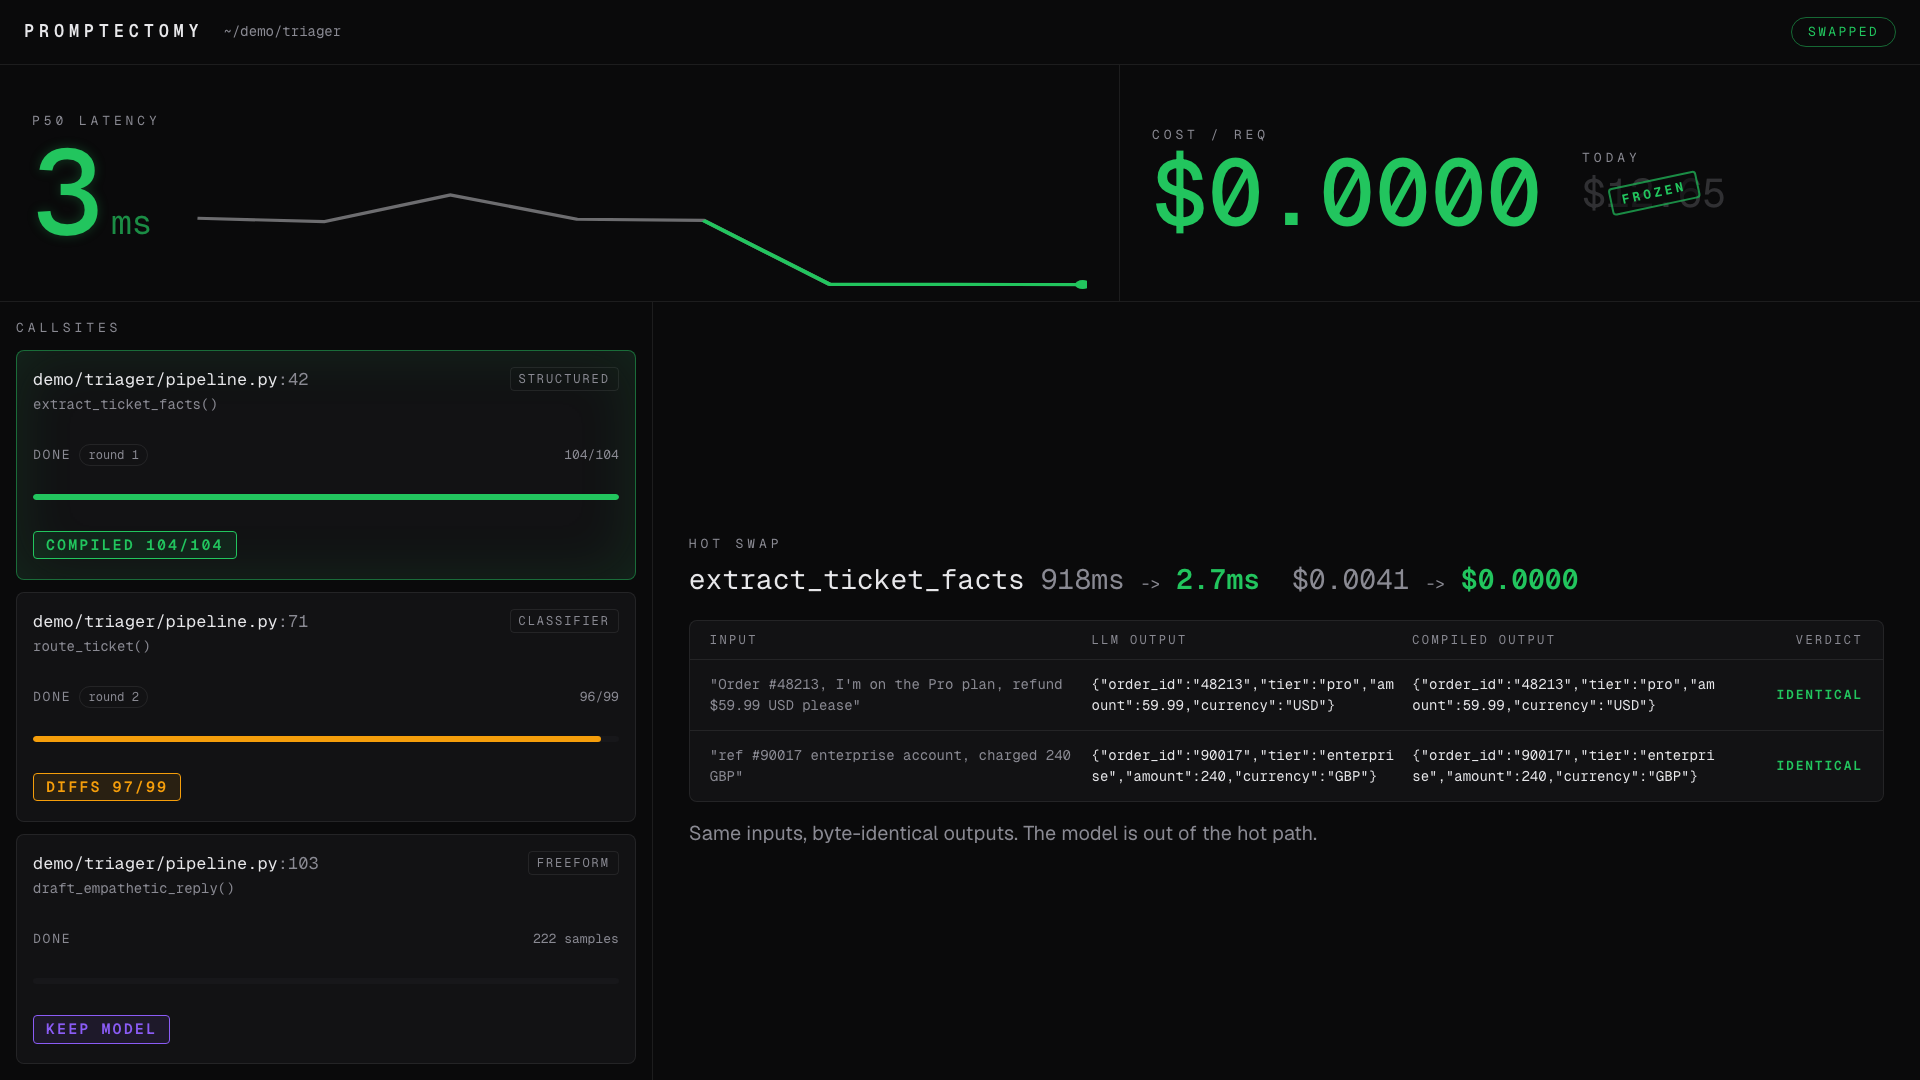
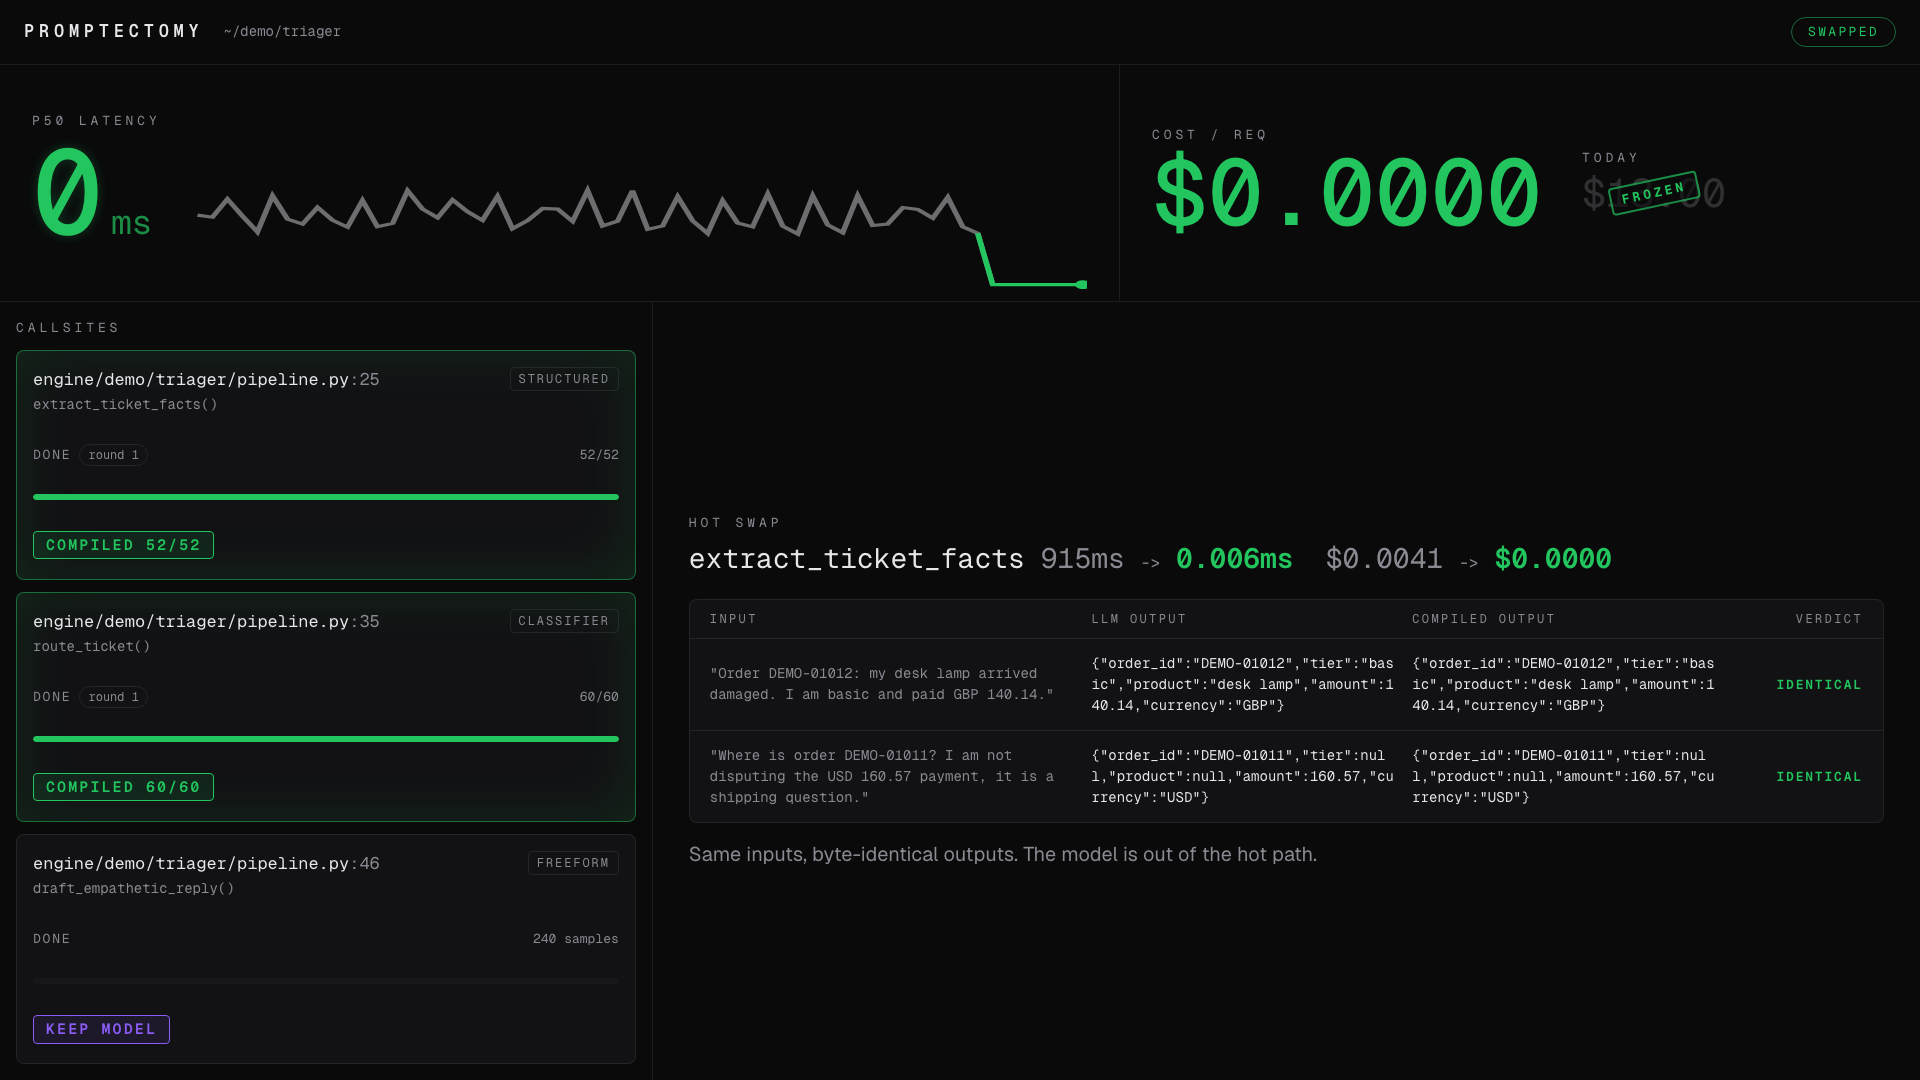
Honest real-data demo + working Codex scan + markitdown receipt
Fixed the audit --output-schema (AuditSample previews were JsonValue -> no concrete type ->
OpenAI strict 400 -> scanner silently fell back to static). Now Codex genuinely audits: verified
on our repo (3 callsites) and on microsoft/markitdown (found its 3 vision/LLM callsites, all
correctly kept as model). Dashboard demo-run.ndjson rebuilt from the real run (52/52, 60/60,
keep-model, -44.8%); swap side-by-side produced by executing the real generated modules; no
fabricated diffs; Playwright 8/8. Receipts under .agent/artifacts/receipts/.

Claude-Session: https://claude.ai/code/session_015d9CNbHRWcF1xMgNYyVSu5

diff --git a/ui/tests/beats.spec.ts b/ui/tests/beats.spec.ts
@@ -2,52 +2,57 @@ import { test, expect, type Page } from "@playwright/test";
 
 // Beat boundaries in fixture time (ms). ?until=N applies every recorded event
 // with at_ms <= N instantly, so each beat is asserted as a deterministic state.
+// The fixture is the re-paced REAL run: scan at 11s, extract verdict at 37.6s,
+// route verdict at 52.4s, keep verdict at 54.2s, swap at 56.5s, done at 73s.
 const GREEN = "rgb(34, 197, 94)";
-const AMBER = "rgb(245, 158, 11)";
 const VIOLET = "rgb(139, 92, 246)";
 
 const goto = (page: Page, until: number) => page.goto(`/?until=${until}`);
 
-test("beat 1: live traffic feed, meters ticking at ~900ms", async ({ page }) => {
-  await goto(page, 2000);
+test("beat 1: live traffic feed, meters ticking at ~950ms", async ({ page }) => {
+  await goto(page, 9500);
   await expect(page.locator("main")).toHaveAttribute("data-beat", "1");
   await expect(page.getByTestId("stage-feed")).toBeVisible();
-  await expect(page.getByTestId("latency-value")).toHaveText("905");
+  await expect(page.getByTestId("latency-value")).toHaveText("951");
   await expect(page.getByTestId("cost-per-req")).toContainText("$0.00");
   await expect(page.getByTestId("wall-placeholder")).toBeVisible();
 });
 
 test("beat 2: scan audit card and callsite wall populate", async ({ page }) => {
-  await goto(page, 3000);
+  await goto(page, 12000);
   await expect(page.locator("main")).toHaveAttribute("data-beat", "2");
   await expect(page.getByTestId("stage-audit")).toBeVisible();
-  await expect(page.getByTestId("recorded-calls")).toHaveText("1,240");
+  await expect(page.getByTestId("recorded-calls")).toHaveText("720");
   await expect(page.getByTestId("callsite-extract_ticket_facts")).toBeVisible();
   await expect(page.getByTestId("callsite-route_ticket")).toBeVisible();
   await expect(page.getByTestId("callsite-draft_empathetic_reply")).toBeVisible();
 });
 
-test("beat 3: synthesis stream, COMPILED verdict is green", async ({ page }) => {
-  await goto(page, 5100);
+test("beat 3: synthesis stream, extract COMPILED 52/52 is green", async ({ page }) => {
+  await goto(page, 38000);
   await expect(page.locator("main")).toHaveAttribute("data-beat", "3");
   await expect(page.getByTestId("stage-stream")).toBeVisible();
   await expect(page.getByTestId("synth-stream")).toBeVisible();
   const verdict = page.getByTestId("verdict-extract_ticket_facts");
   await expect(verdict).toHaveAttribute("data-status", "COMPILED");
+  await expect(verdict).toHaveText("COMPILED 52/52");
   await expect(verdict).toHaveCSS("color", GREEN);
 });
 
-test("beat 3: diff receipts, COMPILED_WITH_DIFFS verdict is amber", async ({ page }) => {
-  await goto(page, 6400);
-  await expect(page.getByTestId("stage-diffs")).toBeVisible();
-  await expect(page.getByTestId("diff-list")).toBeVisible();
+test("beat 3: route lands clean 60/60, no diff stage for a 100% match", async ({ page }) => {
+  await goto(page, 52500);
+  await expect(page.locator("main")).toHaveAttribute("data-beat", "3");
+  await expect(page.getByTestId("stage-stream")).toBeVisible();
   const verdict = page.getByTestId("verdict-route_ticket");
-  await expect(verdict).toHaveAttribute("data-status", "COMPILED_WITH_DIFFS");
-  await expect(verdict).toHaveCSS("color", AMBER);
+  await expect(verdict).toHaveAttribute("data-status", "COMPILED");
+  await expect(verdict).toHaveText("COMPILED 60/60");
+  await expect(verdict).toHaveCSS("color", GREEN);
+  // 100% agreement means there are no diff receipts to show
+  await expect(page.getByTestId("stage-diffs")).toHaveCount(0);
 });
 
 test("beat 4: NOT_COMPILABLE renders violet KEEP MODEL, never red", async ({ page }) => {
-  await goto(page, 6700);
+  await goto(page, 55000);
   await expect(page.locator("main")).toHaveAttribute("data-beat", "4");
   await expect(page.getByTestId("stage-judgment")).toBeVisible();
   await expect(page.getByTestId("judgment-badge")).toHaveCSS("color", VIOLET);
@@ -56,33 +61,39 @@ test("beat 4: NOT_COMPILABLE renders violet KEEP MODEL, never red", async ({ pag
   await expect(verdict).toHaveCSS("color", VIOLET);
 });
 
-test("beat 5: hot swap crashes the meter to 3ms and freezes cost", async ({ page }) => {
-  await goto(page, 8200);
+test("beat 5: hot swap crashes the meter to ~0ms and freezes cost", async ({ page }) => {
+  await goto(page, 60000);
   await expect(page.locator("main")).toHaveAttribute("data-beat", "5");
   await expect(page.getByTestId("stage-swap")).toBeVisible();
   await expect(page.getByTestId("swap-table")).toContainText("IDENTICAL");
-  // spring settles within ~1s of mount
-  await expect(page.getByTestId("latency-value")).toHaveText("3", { timeout: 5000 });
+  // spring settles within ~1s of mount; compiled p50 is 0.006ms -> renders 0
+  await expect(page.getByTestId("latency-value")).toHaveText("0", { timeout: 5000 });
   await expect(page.getByTestId("latency-value")).toHaveCSS("color", GREEN);
   await expect(page.getByTestId("cost-per-req")).toHaveText("$0.0000");
   await expect(page.getByTestId("frozen-stamp")).toBeVisible();
-  await page.waitForTimeout(400);
+  // let the spring fully settle so the hero shot reads 0, not a mid-bounce value
+  await page.waitForTimeout(1500);
+  await expect(page.getByTestId("latency-value")).toHaveText("0");
   await page.screenshot({ path: "screenshots/after-swap.png", fullPage: false });
 });
 
-test("beat 6: shadow guard diagram and closing stats", async ({ page }) => {
-  await goto(page, 9000);
+test("beat 6: shadow guard diagram and honest closing stats", async ({ page }) => {
+  await goto(page, 74000);
   await expect(page.locator("main")).toHaveAttribute("data-beat", "6");
   await expect(page.getByTestId("stage-guard")).toBeVisible();
   await expect(page.getByTestId("guard-diagram")).toBeVisible();
-  await expect(page.getByTestId("closing-stats")).toContainText("2");
-  await expect(page.getByTestId("closing-stats")).toContainText("$410");
+  const stats = page.getByTestId("closing-stats");
+  await expect(stats).toContainText("2");
+  await expect(stats).toContainText("KEPT");
+  await expect(stats).toContainText("-44.8%");
+  // engine measured no monthly savings figure, so none is shown
+  await expect(stats).not.toContainText("/MO SAVED");
   await page.waitForTimeout(700);
   await page.screenshot({ path: "screenshots/beat6-guard.png", fullPage: false });
 });
 
 test("paced replay reaches the final beat on its own", async ({ page }) => {
-  await page.goto("/?speed=6");
+  await page.goto("/?speed=10");
   await expect(page.getByTestId("stage-guard")).toBeVisible({ timeout: 15_000 });
   await expect(page.locator("main")).toHaveAttribute("data-beat", "6");
 });

diff --git a/ui/components/stages/GuardDiagram.tsx b/ui/components/stages/GuardDiagram.tsx
@@ -56,12 +56,15 @@ export function GuardDiagram({ state }: { state: DashState }) {
           <span className="tnum text-[clamp(28px,5vh,52px)] font-medium text-keep">
             {t.kept} <span className="text-[0.55em] text-muted">KEPT</span>
           </span>
+          {/* monthly savings only when the engine measured one; never an unqualified guess */}
+          {t.est_monthly_savings_usd > 0 && (
+            <span className="tnum text-[clamp(28px,5vh,52px)] font-medium text-go">
+              ${Math.round(t.est_monthly_savings_usd)}
+              <span className="text-[0.55em] text-muted">/MO SAVED</span>
+            </span>
+          )}
           <span className="tnum text-[clamp(28px,5vh,52px)] font-medium text-go">
-            ${Math.round(t.est_monthly_savings_usd)}
-            <span className="text-[0.55em] text-muted">/MO SAVED</span>
-          </span>
-          <span className="tnum text-[clamp(28px,5vh,52px)] font-medium text-go">
-            -{Math.round(t.pipeline_cost_reduction_pct)}%
+            -{t.pipeline_cost_reduction_pct.toFixed(1)}%
             <span className="text-[0.55em] text-muted"> PIPELINE COST</span>
           </span>
           <span className="flex-1" />

diff --git a/engine/promptectomy/contracts.py b/engine/promptectomy/contracts.py
@@ -57,9 +57,11 @@ class LedgerEventV1(Closed):
 
 
 class AuditSample(Closed):
+    # str, not JsonValue: these are display previews, and OpenAI strict --output-schema rejects
+    # a field with no concrete type (JsonValue), which silently forced the scanner onto its fallback.
     event_id: str
-    input_preview: JsonValue
-    output_preview: JsonValue
+    input_preview: str = ""
+    output_preview: str = ""
 
 
 class CallsiteAudit(Closed):

diff --git a/docs/SUBMISSION.md b/docs/SUBMISSION.md
@@ -36,9 +36,13 @@ Deleting OpenAI calls at an OpenAI event, good look? We spend powerful inference
 then reserve recurring inference for the callsites where it earns its keep. The freeform reply still
 uses OpenAI. Better allocation of inference, not anti-model theatre.
 
-## Public receipt (kills the strawman)
-- [ ] Scan a pinned commit of microsoft/markitdown; its OpenAI-assisted vision path should be marked
-      keep-model. Label: "public repo audit, no traffic" (no recorded traffic = no equivalence verdict).
+## Public receipt (kills the strawman) - DONE
+- Ran `promptectomy scan` on microsoft/markitdown @ e144e0a (public repo, no traffic). Codex found 3
+  real LLM callsites and correctly marked ALL THREE keep_model: image-caption (_llm_caption.py),
+  image-description (_image_converter.py), and vision OCR (_ocr_service.py). The tool refused to
+  compile code it did not write, because those are genuinely multimodal. Receipt in
+  .agent/artifacts/receipts/markitdown-audit.json (+ meta with the SHA).
+- Judgment demonstrated on someone else's code. Offer a live scan of any public repo in Q&A.
 
 ## Reliability checklist
 - [ ] Cached synthetic ledger; saved real Codex event stream + generated commit + diff.
